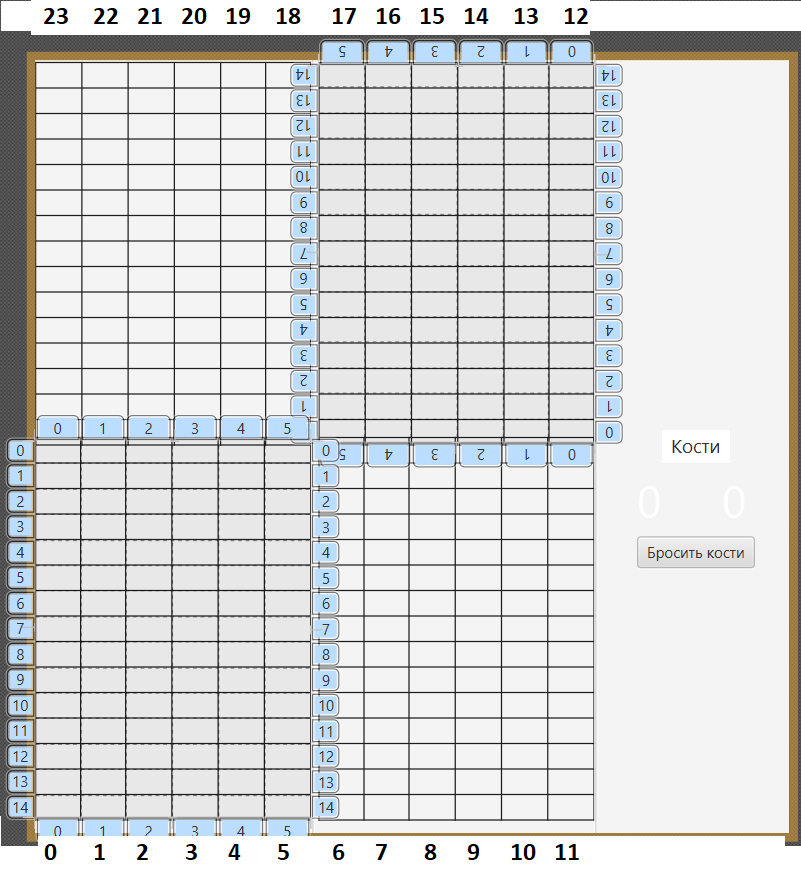
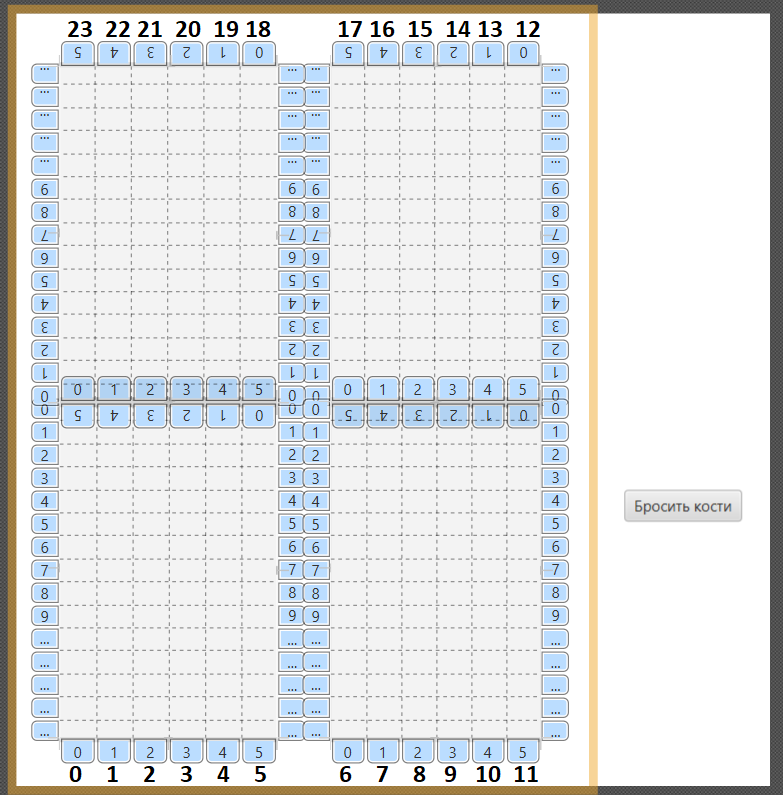
New board background and style

diff --git a/app/src/main/java/FirstGUI/Controller/Cntrllr.java b/app/src/main/java/FirstGUI/Controller/Cntrllr.java
@@ -93,20 +93,20 @@ public class Cntrllr implements ModelListener {
                     /* for chip in column */
                     for (int k = 0; k < numberOfChips; k++) {
                         /*Рисуем круги фишек*/
-                        quartersOfField()[i].add(new Circle(15, chipsImages.get(colorOfChips)), j, 14 - k);
+                        quartersOfField()[i].add(new Circle(13, chipsImages.get(colorOfChips)), j, 14 - k);
                     }
                     /*Рисуем зелёные круги для кнопок предложения хода если ещё не выбрана никакая колонка фишек.
                      *По нажатию упомянутой кнопки индекс её колонки будет запомнен в поле selectedColumn. */
                     if (selectedColumn == -1)
                         if (colorOfChips == model.getCurrentTurn() && !probableTurns.isEmpty()) {
                             Button lastChipButton = new OfferTurnButton(i * 6 + j, model, this);
-                            quartersOfField()[i].add(new Circle(10, green), j, 15 - numberOfChips);
+                            quartersOfField()[i].add(new Circle(9, green), j, 15 - numberOfChips);
                             quartersOfField()[i].add(lastChipButton, j, 15 - numberOfChips);
                             atLeastOneOfferTurnButtonAdded = true;
                         }
                     /*Если какая-то колонка выбрана для хода, то выделяем её жёлтым цветом*/
                     if (selectedColumn == i * 6 + j) {
-                        quartersOfField()[i].add(new Circle(10, yellow), j, 15 - numberOfChips);
+                        quartersOfField()[i].add(new Circle(9, yellow), j, 15 - numberOfChips);
                     }
                 }
             }
